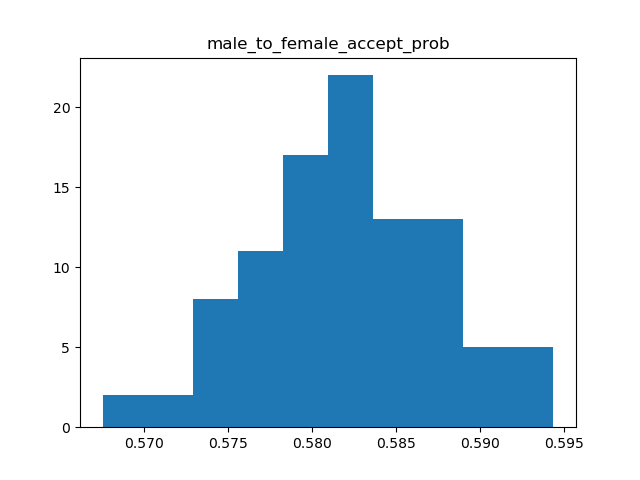
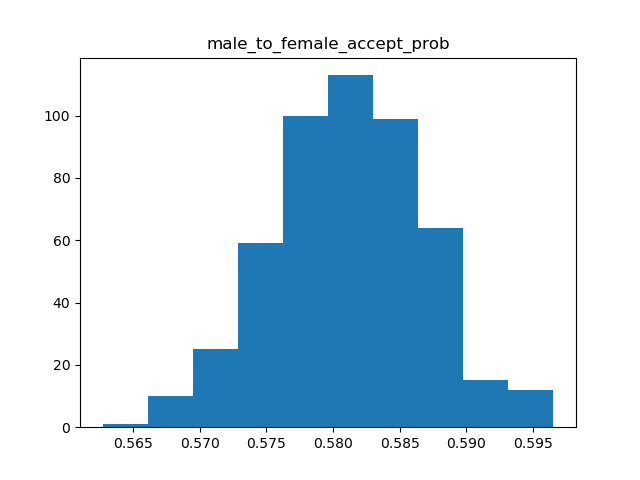
Update

diff --git a/NewDataCode/main.py b/NewDataCode/main.py
@@ -141,9 +141,10 @@ data = get_data(ColName,nr = 100000,year = 2017,sk = 100000)
 original = np.array(data[ColName])
 X = data.drop(columns = [ColName])
 X = X[X['applicant_sex'] == 1]
+noofmales = X.shape[0]
 need = accden.predict(X)
 X['applicant_sex'] = [2 for j in range(X.shape[0])]
-print("Ratio of males in the data =",X.shape[0]/83323)
+print("Ratio of males in the data =",X.shape[0]/noofmales)
 monte = accden.predict(X)
 X['new_pred'] = monte
 X['original_sex'] = ori
@@ -179,9 +180,10 @@ data = get_data(ColName,nr = 100000,year = 2017,sk = 100000)
 original = np.array(data[ColName])
 X = data.drop(columns = [ColName])
 X = X[X['applicant_sex'] == 2]
+nooffemales = X.shape[0]
 need = accden.predict(X)
 X['applicant_sex'] = [1 for j in range(X.shape[0])]
-print("Ratio of females in the data =",X.shape[0]/83323)
+print("Ratio of females in the data =",X.shape[0]/nooffemales)
 
 monte = accden.predict(X)
 X['new_pred'] = monte
@@ -224,7 +226,7 @@ male_to_female_accept_prob = []
 male_to_female_reject_prob = []
 female_to_male_reject_prob = []
 no_change_prob = []
-for i in tqdm(range(1,100)): #10257
+for i in tqdm(range(1,500)): #10257
     random.seed(i)
     X['applicant_sex'] = [random.choice([1,2,3,4]) for j in range(len(original))]
     monte = accden.predict(X)
